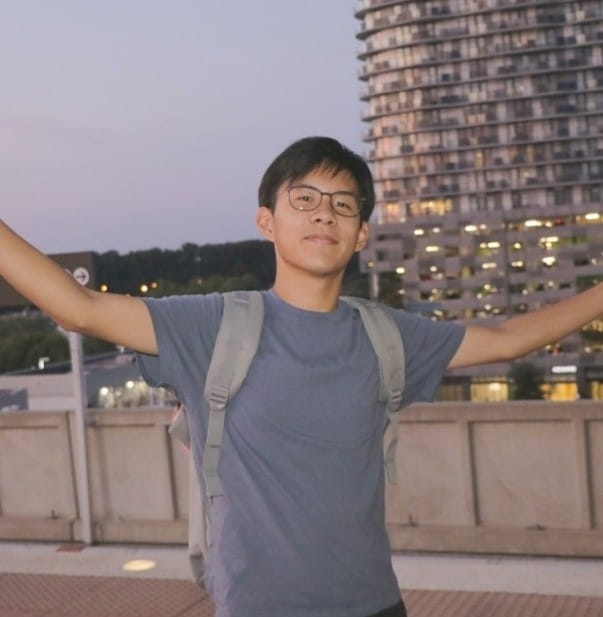
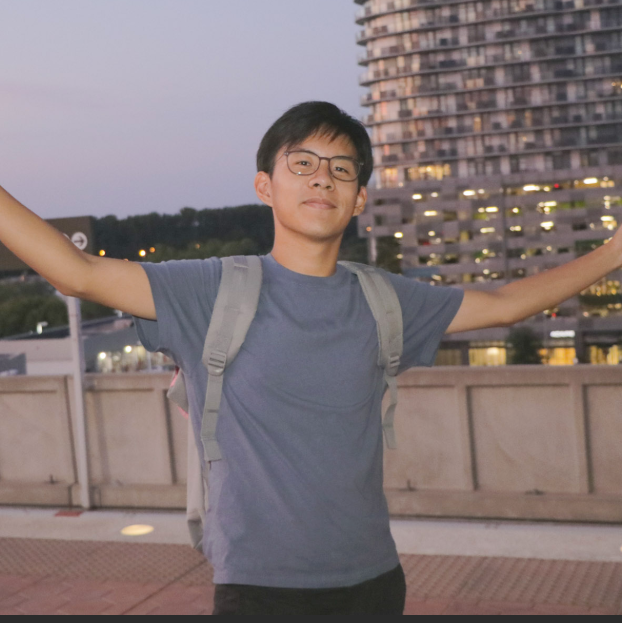
photo, about, sidebar styling

diff --git a/config.js b/config.js
@@ -4,7 +4,7 @@ module.exports = {
   url: 'https://andknam.github.io/',
   pathPrefix: '/',
   title: 'Andrew Nam',
-  subtitle: 'My Site and Blog',
+  subtitle: 'Personal Site and Blog',
   copyright: '© Andrew Nam 2021',
   disqusShortname: '',
   postsPerPage: 4,
@@ -16,16 +16,17 @@ module.exports = {
       path: '/'
     },
     {
-      label: 'About me',
+      label: 'About',
       path: '/pages/about'
     },
   ],
   author: {
     name: 'Andrew Nam',
     photo: '/photo.jpg',
-    bio: 'My Site and Blog',
+    bio: 'Personal Site and Blog',
+    copyright: '© Andrew Nam 2021',
     contacts: {
-      email: 'andrew[dot]k[dot]nam[at]vanderbilt[dot]edu',
+      email: 'andrew.k.nam@vanderbilt.edu',
       facebook: '',
       telegram: '',
       twitter: '',
@@ -41,6 +42,6 @@ module.exports = {
       youtube: '',
       soundcloud: '',
       medium: '@andrew22124',
-    }
+    },
   }
 };

diff --git a/src/templates/page-template.js b/src/templates/page-template.js
@@ -19,7 +19,7 @@ const PageTemplate = ({ data }: Props) => {
   const { frontmatter } = data.markdownRemark;
   const { title: pageTitle, description: pageDescription = '', socialImage } = frontmatter;
   const metaDescription = pageDescription || siteSubtitle;
-  const socialImageUrl = socialImage?.publicURL;
+  const socialImageUrl = socialImage === null || typeof socialImage === 'undefined' ? undefined : socialImage['publicURL'];
 
   return (
     <Layout title={`${pageTitle} - ${siteTitle}`} description={metaDescription} socialImage={socialImageUrl} >
@@ -40,9 +40,6 @@ export const query = graphql`
         title
         date
         description
-        socialImage {
-          publicURL
-        }
       }
     }
   }

diff --git a/src/templates/post-template.js b/src/templates/post-template.js
@@ -17,7 +17,7 @@ const PostTemplate = ({ data }: Props) => {
   const { frontmatter } = data.markdownRemark;
   const { title: postTitle, description: postDescription = '', socialImage } = frontmatter;
   const metaDescription = postDescription || siteSubtitle;
-  const socialImageUrl = socialImage?.publicURL;
+  const socialImageUrl = socialImage === null || typeof socialImage === 'undefined' ? undefined : socialImage['publicURL'];
 
   return (
     <Layout title={`${postTitle} - ${siteTitle}`} description={metaDescription} socialImage={socialImageUrl} >
@@ -40,9 +40,6 @@ export const query = graphql`
         description
         tags
         title
-        socialImage {
-          publicURL
-        }
       }
     }
   }

diff --git a/src/components/Post/Author/Author.js b/src/components/Post/Author/Author.js
@@ -10,15 +10,15 @@ const Author = () => {
   return (
     <div className={styles['author']}>
       <p className={styles['author__bio']}>
-        {author.bio}
-        <a
+        {author.copyright}
+        {/* <a
           className={styles['author__bio-twitter']}
           href={getContactHref('twitter', author.contacts.twitter)}
           rel="noopener noreferrer"
           target="_blank"
         >
           <strong>{author.name}</strong> on Twitter
-        </a>
+        </a> */}
       </p>
     </div>
   );

diff --git a/src/components/Sidebar/Author/Author.js b/src/components/Sidebar/Author/Author.js
@@ -18,8 +18,8 @@ const Author = ({ author, isIndex }: Props) => (
       <img
         src={withPrefix(author.photo)}
         className={styles['author__photo']}
-        width="75"
-        height="75"
+        width="100"
+        height="100"
         alt={author.name}
       />
     </Link>

diff --git a/src/hooks/use-site-metadata.js b/src/hooks/use-site-metadata.js
@@ -10,6 +10,7 @@ const useSiteMetadata = () => {
             author {
               name
               bio
+              copyright
               photo
               contacts {
                 facebook

diff --git a/src/components/Sidebar/Sidebar.module.scss b/src/components/Sidebar/Sidebar.module.scss
@@ -31,7 +31,7 @@
 
 @include breakpoint-md {
     .sidebar {
-        lost-column: 1/3;
+        lost-column: 10.3/40;
         &__inner {
             padding: 40px;
         }

diff --git a/src/components/Sidebar/Contacts/Contacts.module.scss b/src/components/Sidebar/Contacts/Contacts.module.scss
@@ -12,7 +12,7 @@
     list-style: none;
     padding: 0;
     margin: 10px -3px;
-    width: 140px;
+    width: 200px;
 
     &-item {
       padding: 0;

diff --git a/content/pages/about.md b/content/pages/about.md
@@ -1,15 +1,15 @@
 ---
-title: "About me"
+title: "About"
 template: "page"
 socialImage: ""
 ---
 
-Hello! I’m Andrew - an undergraduate at Vanderbilt studying computer science and applied mathematics. I'm especially interested in the intersection of machine learning with linguistics, business, finance, and healthcare. 
+😎 Hello! I’m Andrew - an undergraduate at [Vanderbilt](https://www.vanderbilt.edu) studying computer science and applied mathematics. I'm especially interested in the intersection of machine learning with linguistics, business, finance, and healthcare. 
 
-I'm currently interning at Brain Technologies, a startup aiming to make software more natural by connecting users with products and services via a real-time generative interface (think of it as an NLP-powered application allowing you to access Lyft, Amazon Prime, Doordash, grocery shopping, and movie booking all-in-one). So far I've dived into the design process for feature ideation and beta domain creation with a few teammates. 
+🧠 I'm currently interning at [Brain Technologies](https://brain.ai/), a startup aiming to make software more natural by connecting users with products and services via a real-time generative interface (think of it as an NLP-powered application allowing you to access Lyft, Amazon Prime, Doordash, grocery shopping, and movie booking all-in-one). So far I've dived into the design process for feature ideation and beta domain creation with a few teammates. 
 
-I've built an interest in healthcare through my work at Vanderbilt University Medical Center (VUMC), working on integrating pediatric height calculation functionality into the VUMC electronic health record. More recently I've been assisting NLP research at the Social Computing for Health and Well-being Research (#SPHERE) lab, learning about fine-tuned BERT classification and structural topic modeling in analyzing online discussion posts by Alzheimer's Disease caregivers. 
+🏥 I've built an interest in healthcare through my work at [Vanderbilt University Medical Center (VUMC)](https://www.vumc.org/main/home), working on integrating pediatric height calculation functionality into the VUMC electronic health record. More recently I've been assisting NLP research at the [Social Computing for Health and Well-being Research (#SPHERE) lab](https://zjyin.github.io/spherelab/), learning about fine-tuned BERT classification and structural topic modeling in analyzing online discussion posts by Alzheimer's Disease caregivers. 
 
-Outside of work, I like to read about VC and entrepreneurship, teach Korean through Vanderbilt's Language Mentorship program, and attempt to play electric guitar. Before the pandemic, I was a violinist in Vanderbilt's Blair School of Music Orchestra, played golf, and solved Rubik's cubes fast.
+😃 Outside of work, I like to read about VC and entrepreneurship, teach Korean through Vanderbilt's Language Mentorship program, and attempt to play electric guitar. Before the pandemic, I was a violinist in Vanderbilt's Blair School of Music Orchestra, played golf, and solved Rubik's cubes fast.
 
-If you wanna chat or send me a message, please feel free to reach out to me at this email: andrew.k.nam@vanderbilt.edu
+📨 If you wanna chat or send me a message, please feel free to reach out to me at this email: andrew.k.nam@vanderbilt.edu
